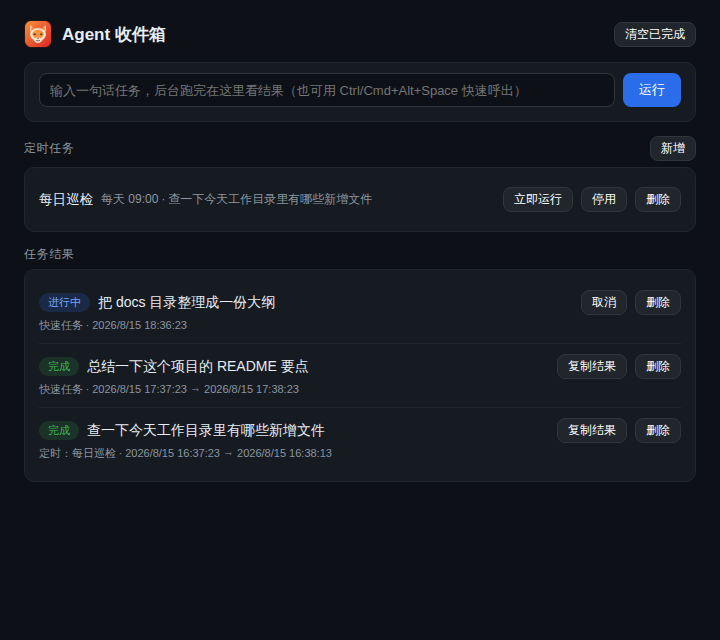
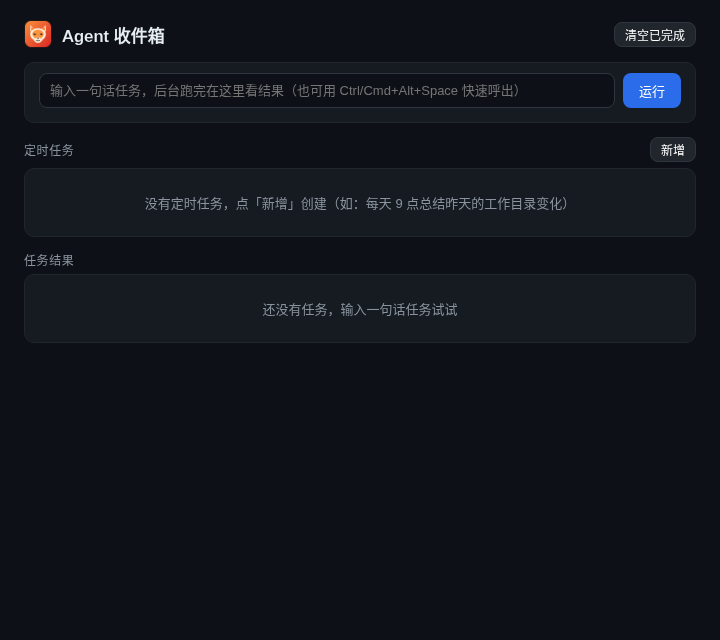
docs: recapture screenshots from the app running dsh 0.2.2-rc.1

diff --git a/README.md b/README.md
@@ -77,6 +77,8 @@ DSH Desktop 将官方发布的 [`@deepseek-ai/dsh`](https://github.com/deepseek-
 
 ![设置](assets/settings.png)
 
+> 截图在 Linux（xvfb）中实际运行本应用拍摄：首次启动自动安装 `@deepseek-ai/dsh` 0.2.2-rc.1 并启动 `dsh web`。主窗口中的 Web UI 为英文（dsh 默认语言）；应用自身的设置、收件箱等窗口只有中文。
+
 ## 快捷键
 
 | 快捷键 | 功能 |

diff --git a/README.en.md b/README.en.md
@@ -78,6 +78,8 @@ The installer bundles a Node.js runtime, so first-time setup succeeds even offli
 
 ![Settings](assets/settings.png)
 
+> Captured by running the app on Linux (xvfb): on first launch it installed `@deepseek-ai/dsh` 0.2.2-rc.1 and started `dsh web`. The embedded Web UI is in English (dsh's default); the app's own windows (settings, inbox) are Chinese only.
+
 ## Keyboard shortcuts
 
 | Shortcut | Action |
